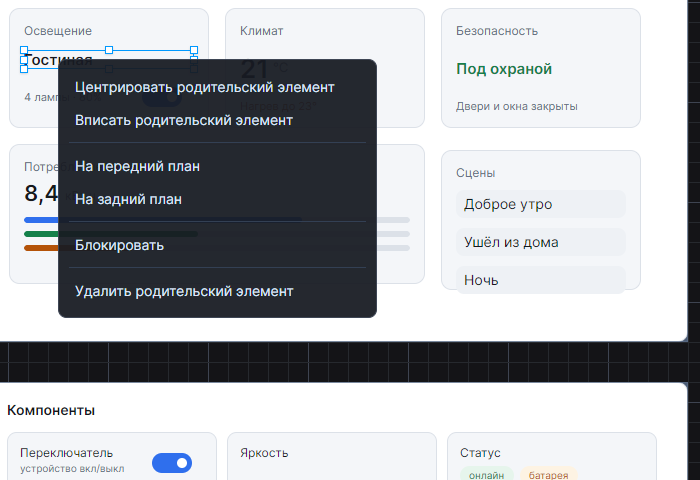
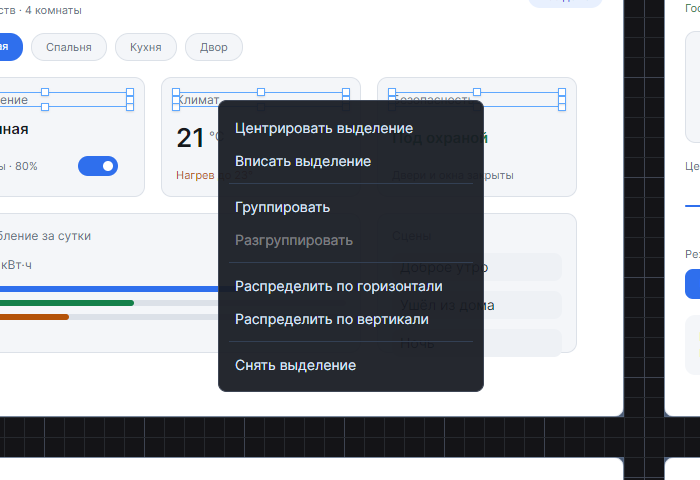
docs(readme): retake the screenshots and tell the truth about groups
Каждый снимок показывал окно без панели групп, а раздел про группы
описывал плоскую модель: «прежняя группа входит в новую целиком» и
«роспуск распускает группу целиком» перестали быть правдой, когда
группы стали вкладываться.

Семь снимков пересняты из демо этого репозитория, восьмой добавлен -
панель групп с вложенной группой и одной рамкой на холсте. Подписи
описывают то, что действительно в кадре: у линий выравнивания больше
нет оранжевого отрезка, а равные интервалы в новом кадре горизонтальные.

Заодно поверхность: типов 55, а не 42 - в таблице не хватало
направляющих, линеек, курсоров и DesignGroupInfo.

diff --git a/README.md b/README.md
@@ -20,7 +20,7 @@
 
 ![Общий вид редактора](docs/images/overview.png)
 
-Пять экранов приложения умного дома лежат на бесконечном холсте: каждый — отдельный `DesignEditorItem` с загруженной разметкой. По краям линейки, сверху шапка: в верхнем ряду шаг сетки, переключатели показа, масштаб, команды вида и отмена, в нижнем — что выбрано и какие у него числа. Пользовательские направляющие хост задал, но показ их выключен — за него отвечает переключатель `guides`.
+Пять экранов приложения умного дома лежат на бесконечном холсте: каждый — отдельный `DesignEditorItem` с загруженной разметкой. По краям линейки, сверху шапка: в верхнем ряду шаг сетки, переключатели показа, масштаб, команды вида и отмена, в нижнем — что выбрано и какие у него числа. Слева панель групп — она построена целиком на публичном API и показывает, что редактор о группах отвечает. Пользовательские направляющие хост задал, но показ их выключен — за него отвечает переключатель `guides`.
 
 ### Выделение
 
@@ -40,17 +40,19 @@
 
 ## Публичная поверхность
 
-Библиотека экспортирует 42 типа. Всё остальное — реализация и может меняться без предупреждения.
+Библиотека экспортирует 55 типов. Всё остальное — реализация и может меняться без предупреждения.
 
 | Область | Типы |
 |---|---|
 | Редактор | `DesignEditor`, `DesignEditorItem` |
 | Контролы для шаблонов и тем | `AbsolutePanel`, `DesignGrid`, `SelectionAdorner`, `SelectionAdornerRole`, `ResizeDirection`, `ResizeDeltaEventArgs`, `ResizeStartedEventArgs` |
-| Позиционирование и политики | `Layout`, `DesignInteraction`, `MovePolicy`, `ResizePolicy`, `DesignGroup` |
-| Настройка ввода | `DesignEditorInputGestures`, `DesignEditorPointerButton`, `ContainerEmptyAreaDragGesture`, `DesignEditorInteractionOptions` |
+| Позиционирование и политики | `Layout`, `DesignInteraction`, `MovePolicy`, `ResizePolicy` |
+| Группы | `DesignGroup`, `DesignGroupInfo` |
+| Настройка ввода | `DesignEditorInputGestures`, `DesignEditorPointerButton`, `ContainerEmptyAreaDragGesture`, `DesignEditorInteractionOptions`, `DesignEditorCursors` |
 | Содержимое контейнера | `DesignContentMode` |
 | Запросы к приложению | `DesignEditorDeleteRequestedEventArgs`, `DesignEditorReorderRequestedEventArgs`, `DesignEditorHistoryRequestedEventArgs` |
 | Выделение | `DesignSelectionTarget`, `DesignSelectionScope`, `DesignSelectionChangedEventArgs` |
+| Направляющие и линейки | `DesignGuide`, `DesignGuideOrientation`, `DesignSnapGuide`, `DesignSnapGuideKind`, `DesignSnapGuideOrientation`, `DesignSpacingHint`, `SnapGuideLayer`, `DesignRuler`, `DesignGuideChangeKind`, `DesignGuideChangeRequestedEventArgs` |
 | Контракт изменений | `DesignChange`, `DesignGeometryChange`, `DesignOrderChange`, `DesignGroupChange`, `DesignEditKind`, `DesignEditCompletedEventArgs` |
 | События контейнера | `DragStartedEventArgs`, `DragDeltaEventArgs`, `DragCompletedEventArgs` |
 | Контекстные действия | `IDesignEditorContextActionProvider`, `IDesignEditorContextPresenter`, `ContextMenuContextPresenter`, `DesignEditorContextAction`, `DesignEditorContextRequest`, `DesignEditorContextScope`, `DesignEditorContextSource`, `DesignEditorContextRequestingEventArgs`, `DesignEditorContextRequestedEventArgs` |
@@ -374,7 +376,7 @@ editor.ReorderRequested += (_, e) =>
 
 ![Направляющие выравнивания](docs/images/snap-guides.png)
 
-Пунктиром показаны линии выравнивания, найденные во время перетаскивания: розовые — по краям, фиолетовая — по центру. Оранжевый отрезок справа — подсказка о равном зазоре.
+Пунктиром показаны линии выравнивания, найденные во время перетаскивания: розовая — совпадение по краям соседей, фиолетовая — по центрам. Карточку «Климат» ведут внутри формы, и обе линии живут только пока идёт жест.
 
 При перетаскивании элемент выравнивается по краям и центрам соседей, а совпавшие линии рисуются поверх холста. Включено по умолчанию:
 
@@ -416,7 +418,7 @@ editor.ReorderRequested += (_, e) =>
 
 ![Равные интервалы](docs/images/equal-spacing.png)
 
-Карточку «Климат» ведут внутри формы, и оба зазора вокруг неё — до ряда кнопок сверху и до карточки снизу — показаны отрезками с засечками: это измерение, а не ещё одна ось. Каждый отрезок лежит по середине полосы, общей у элемента и того соседа, до которого он меряет, — поэтому у разных по ширине соседей они и оказываются в разных местах. Серым пунктиром на том же кадре видно выравнивание по соседям в ряду: оси независимы, и одна занята выравниванием, пока другая занята интервалом.
+Карточку «Климат» ведут внутри формы, и оба зазора вокруг неё — до карточек слева и справа — показаны оранжевыми отрезками с засечками: это измерение, а не ещё одна ось. Отрезки лежат по середине полосы, общей у элемента и того соседа, до которого он меряет. На том же кадре видно, что оси независимы: горизонтальная занята интервалом, а вертикальная — выравниванием по центрам соседей (фиолетовый пунктир) и по краю (розовый).
 
 Когда элемент подводят к положению, при котором зазоры вокруг него становятся равными, он встаёт на него, а зазоры показываются отрезками с засечками — это измерение, а не ещё одна ось.
 
@@ -446,17 +448,25 @@ editor.ReorderRequested += (_, e) =>
 
 ### Группы
 
-Несколько контролов можно объединить в группу: она рисуется одной рамкой и ведёт себя как один элемент — перетаскивается и масштабируется целиком.
+Несколько контролов можно объединить в группу: она рисуется одной рамкой и ведёт себя как один элемент — перетаскивается и масштабируется целиком. Группы **вкладываются друг в друга**: выбрав группу и добавив к ней соседа, вы получаете группу из группы и контрола.
+
+![Группы](docs/images/groups.png)
+
+Слева панель групп из демо: `group-1` держит группу `scenes` и одиночный `TextBlock`. Панель не знает ни одного внутреннего типа библиотеки — состав она читает `GetGroups`, выбор задаёт `SelectDesignTarget`, имя правит `RenameGroup`. На холсте у всей группы одна рамка.
 
 ```csharp
-editor.GroupSelection();     // из текущего выделения
-editor.UngroupSelection();   // распустить группы выделения
+editor.GroupSelection();                                // из текущего выделения
+editor.UngroupSelection();                              // снять внешний уровень
+editor.RenameGroup(container, "group-1", "toolbar");    // переименовать уровень
+
+foreach (var group in editor.GetGroups(container))      // дерево групп формы
+    editor.GetGroupMembers(container, group.Path);      // весь состав, включая вложенные
 ```
 
-Группа — это **пометка на контролах**, а не новый узел разметки:
+Группа — это **пометка на контролах**, а не новый узел разметки, и пометка эта — путь от внешней группы к внутренней:
 
 ```xml
-<Border attached:DesignGroup.Id="toolbar" />
+<Border attached:DesignGroup.Id="toolbar/icons" />
 ```
 
 Так решено не из экономии. Редактор не правит дерево контролов (см. [ADR 0001](docs/adr/0001-the-editor-reads-the-tree-and-never-writes-it.md)) — переложить участников в созданный им контейнер значило бы изменить проекцию, не изменив источник, и первая же пересборка документа вернула бы всё назад. Пометка живёт там же, где `Layout.X`/`Y` и `DesignInteraction`, и сохраняется тем же способом, каким приложение уже сохраняет координаты. Если группа нужна именно контейнером в разметке, её создаёт хост — он владеет деревом.
@@ -464,11 +474,12 @@ editor.UngroupSelection();   // распустить группы выделен
 Отсюда правила, каждое закрыто тестом:
 
 - **Группа не выходит за пределы одной формы.** Выделение двухслойно, и группа поперёк форм разошлась бы с индексным слоем. Собрать такой набор нельзя и самим выделением — добавление требует общего design host.
-- **Прежняя группа участника входит в новую целиком.** Иначе её половина осталась бы со старой пометкой, и рамок стало бы две там, где собирали одну.
-- **Роспуск распускает группу целиком**, а не выбранную её часть: группа — отношение между участниками, и «разгруппировать половину» оставило бы остальных в группе из одного.
+- **Считаются кластеры, а не контролы.** Кластер — это то, что видно одной рамкой: группа целиком либо одиночный контрол. Группировка требует двух кластеров, поэтому выбранная целиком группа сама по себе нового уровня не создаёт — он ничего не разделял бы.
+- **Группа-участник вкладывается, а не растворяется.** Её путь сохраняется хвостом, а новый уровень встаёт над общим родителем всех кластеров.
+- **Роспуск снимает один внешний уровень**, а не всю вложенность: то, что собрано отдельным действием, переживает его и поднимается на уровень выше.
 - **Группировка попадает в контракт изменений** (`DesignEditKind.Group`, `DesignGroupChange`) и отменяется как перемещение или порядок.
 
-Двойной клик по участнику **входит** в группу и выбирает один контрол; клик мимо неё закрывает вход обратно. Без этого отредактировать участника можно было бы только распустив группу.
+Повторный клик по тому же месту **спускается на уровень**: первый берёт самую внешнюю группу, второй входит в неё и берёт вложенную целиком, третий — сам контрол. Клик мимо закрывает вход обратно. Без этого отредактировать участника можно было бы только распустив группу.
 
 ### Пользовательские направляющие
 
